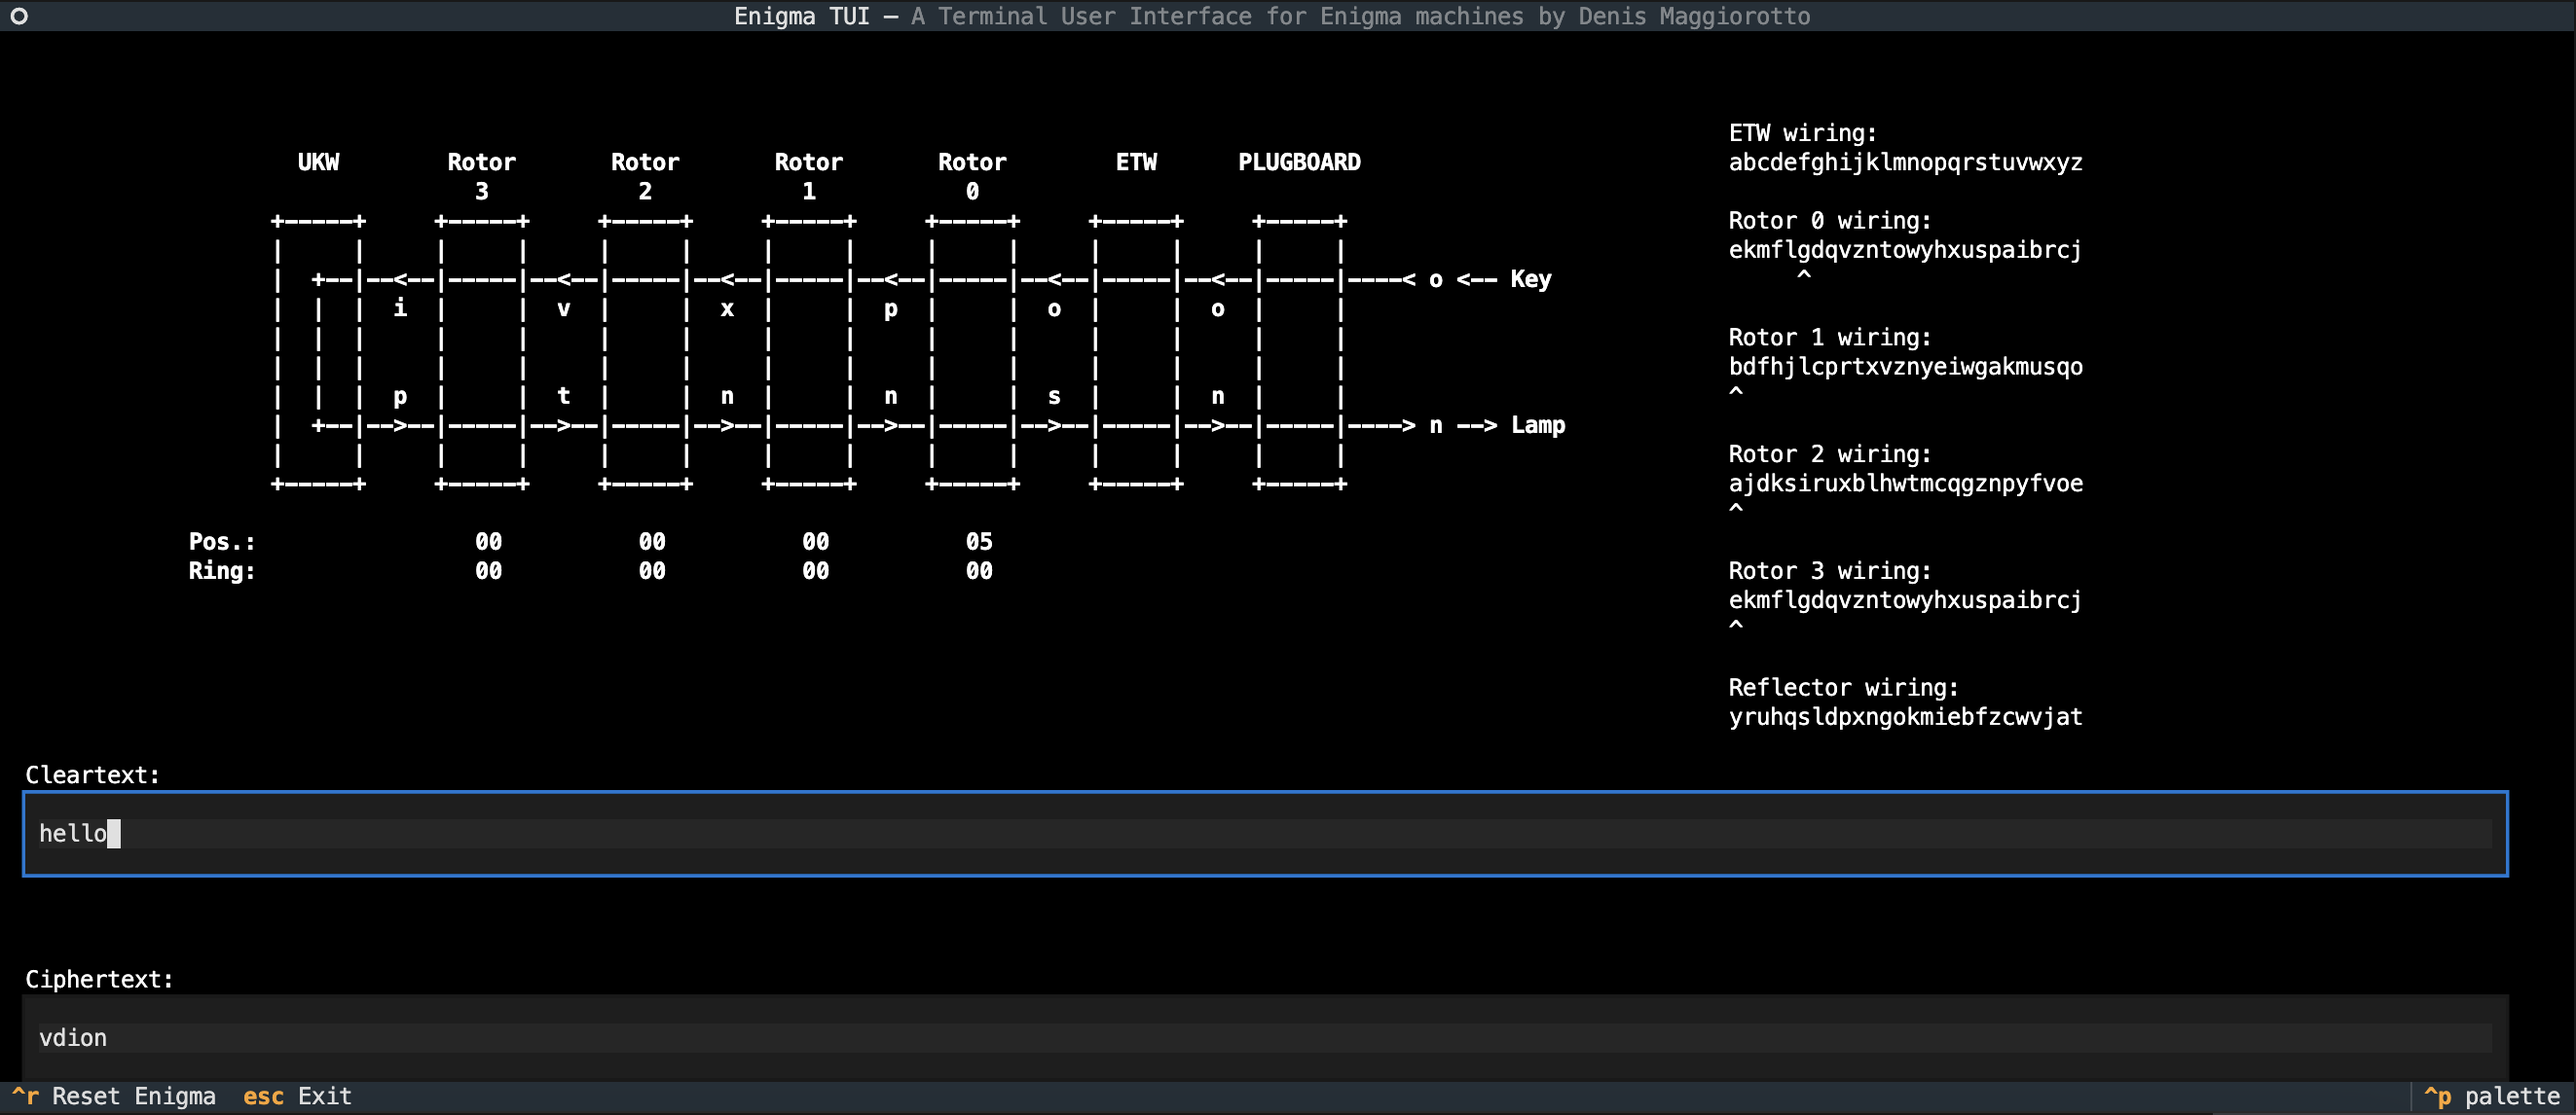
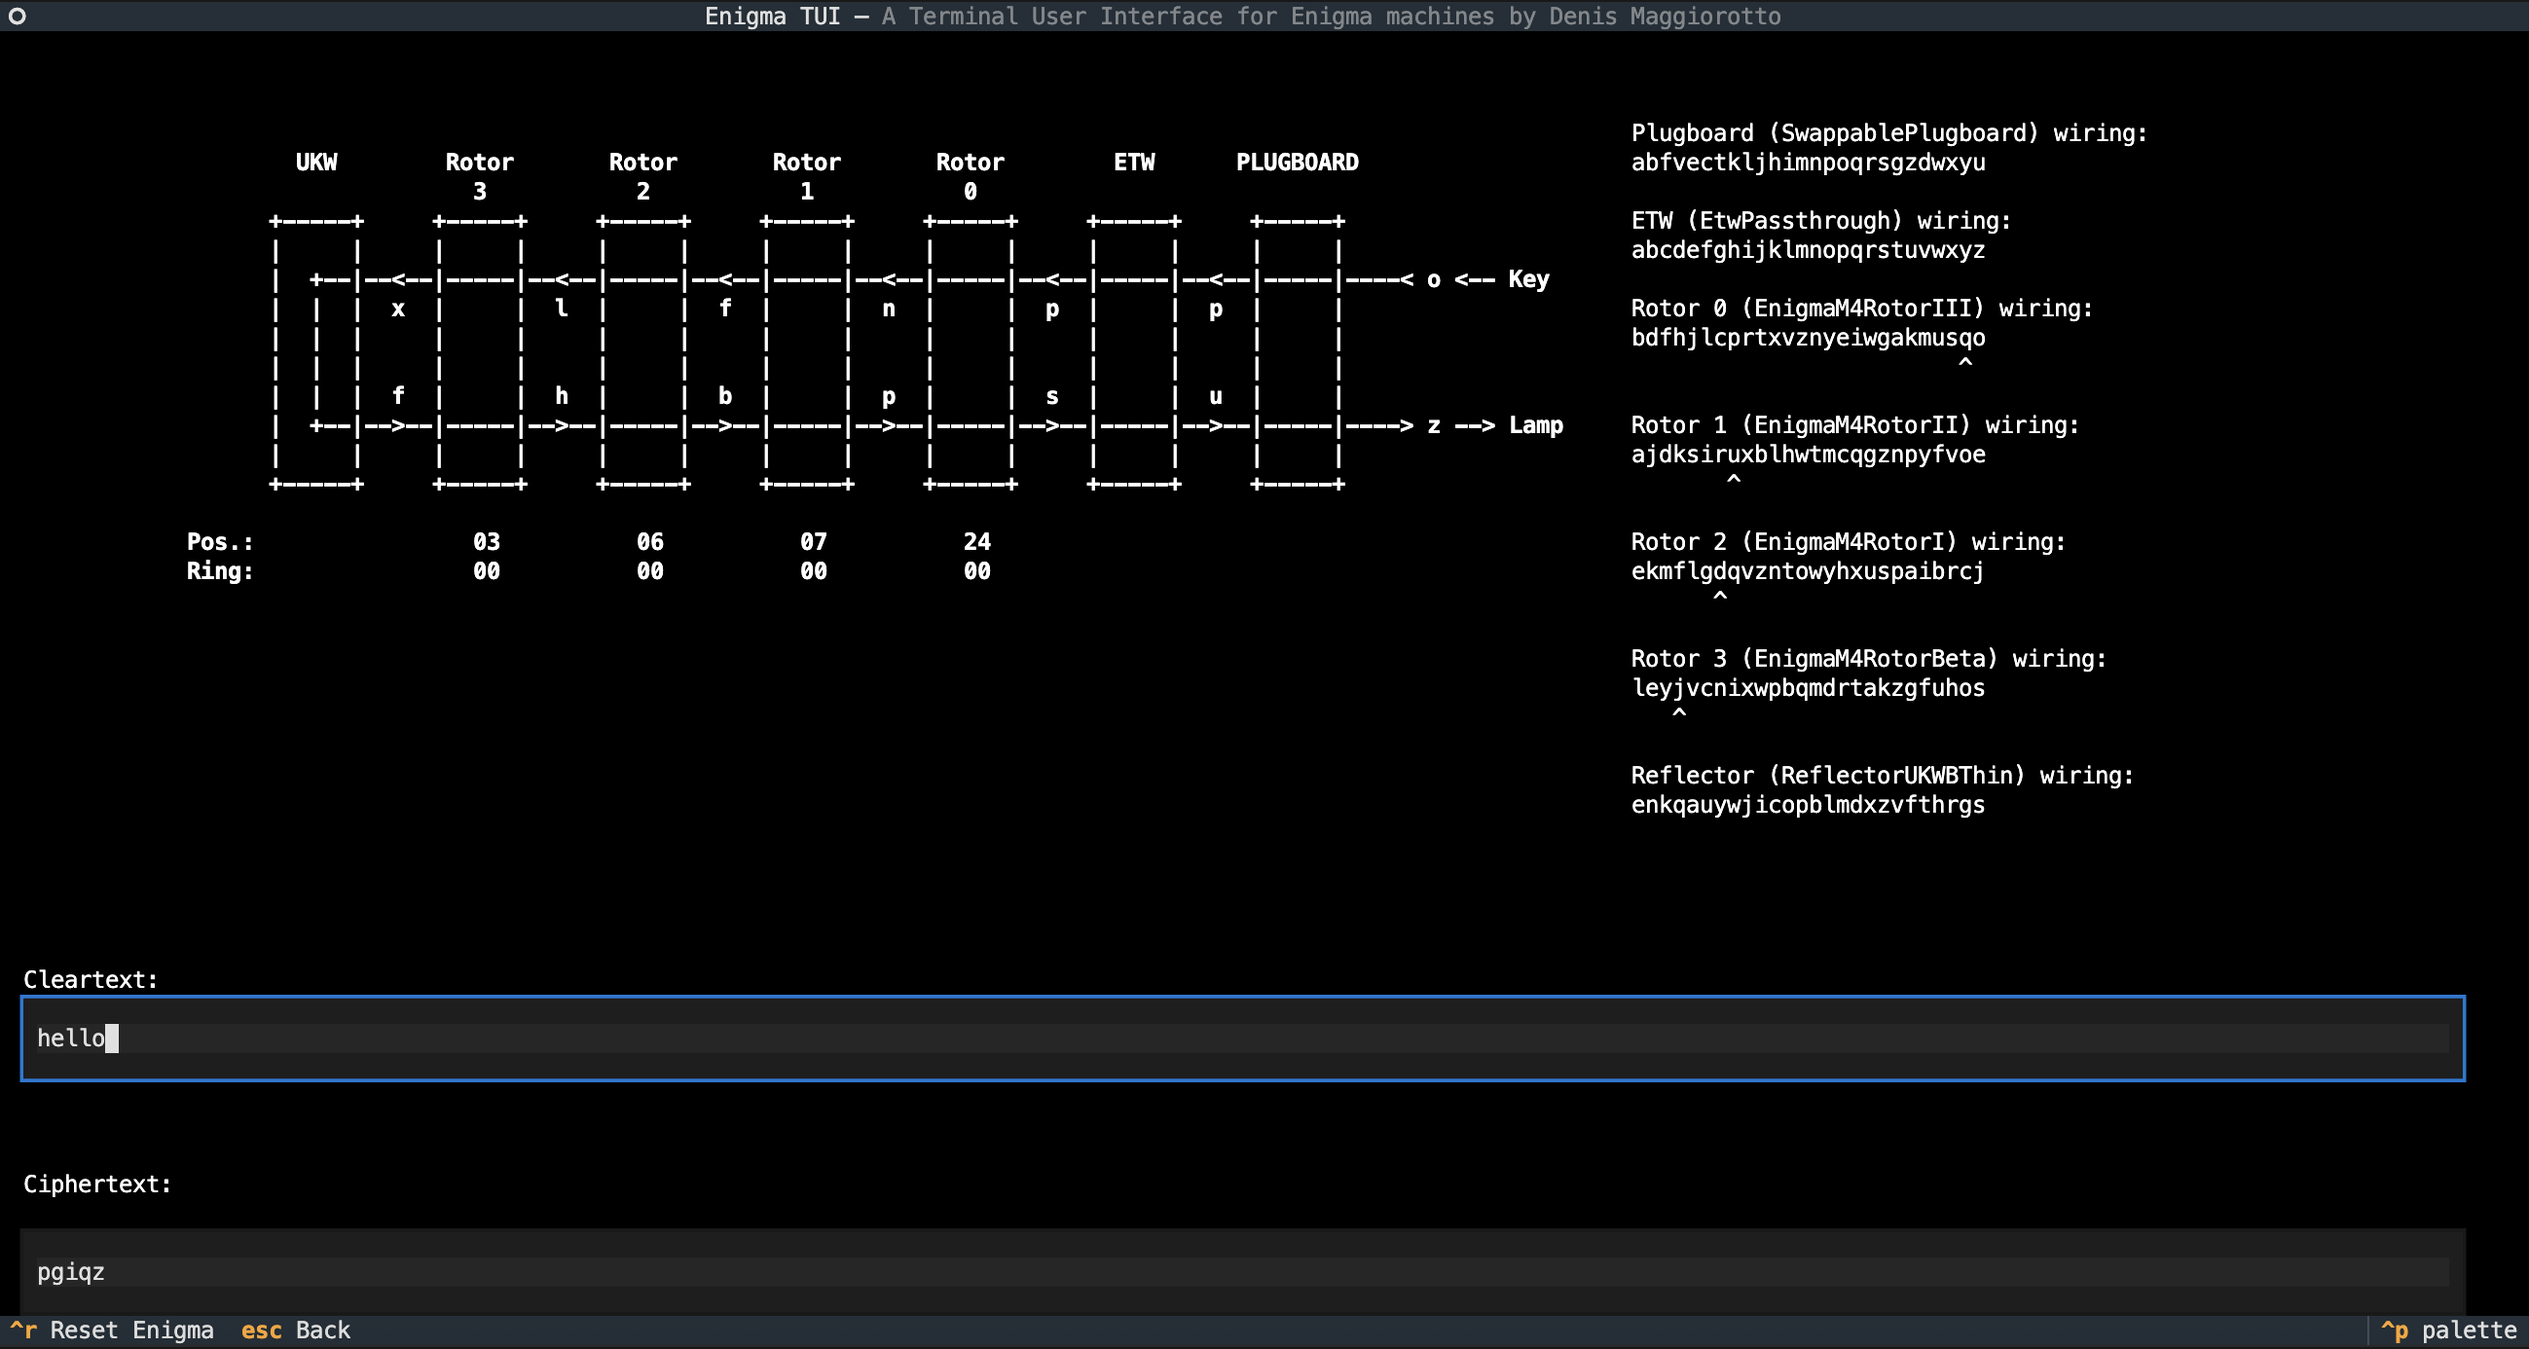
fix

diff --git a/src/tui/enigmatui/css/styles.css b/src/tui/enigmatui/css/styles.css
@@ -104,7 +104,7 @@ EncryptScreen #enigma-diagram-wirings-horizontal {
     content-align-horizontal: left;
     margin-top: 1;
     margin-right: 1;
-    height: 23;
+    height: 30;
     width: auto
 }
 

diff --git a/src/tui/enigmatui/screens/configure.py b/src/tui/enigmatui/screens/configure.py
@@ -74,12 +74,9 @@ class ConfigureScreen(Screen):
             plugboard = SwappablePlugboard()
 
             # Iterate through letter pairs
-            for i in range(0, len(self.plugboard_input.value), 2):
-                pair = self.plugboard_input.value[i:i+2]
+            pairs = self.plugboard_input.value.split()
+            for i, pair in enumerate(pairs):
                 plugboard.swap(pair[0],pair[1])
-            #pairs = self.plugboard_input.value.split()
-            #for i, pair in enumerate(pairs):
-            #    plugboard.swap(pair[0],pair[1])
 
             if self.enigma_type_select.value == "EnigmaM3":
                 self.enigma_config.set_configured_enigma(EnigmaM3(rotor1=rotor0, 
